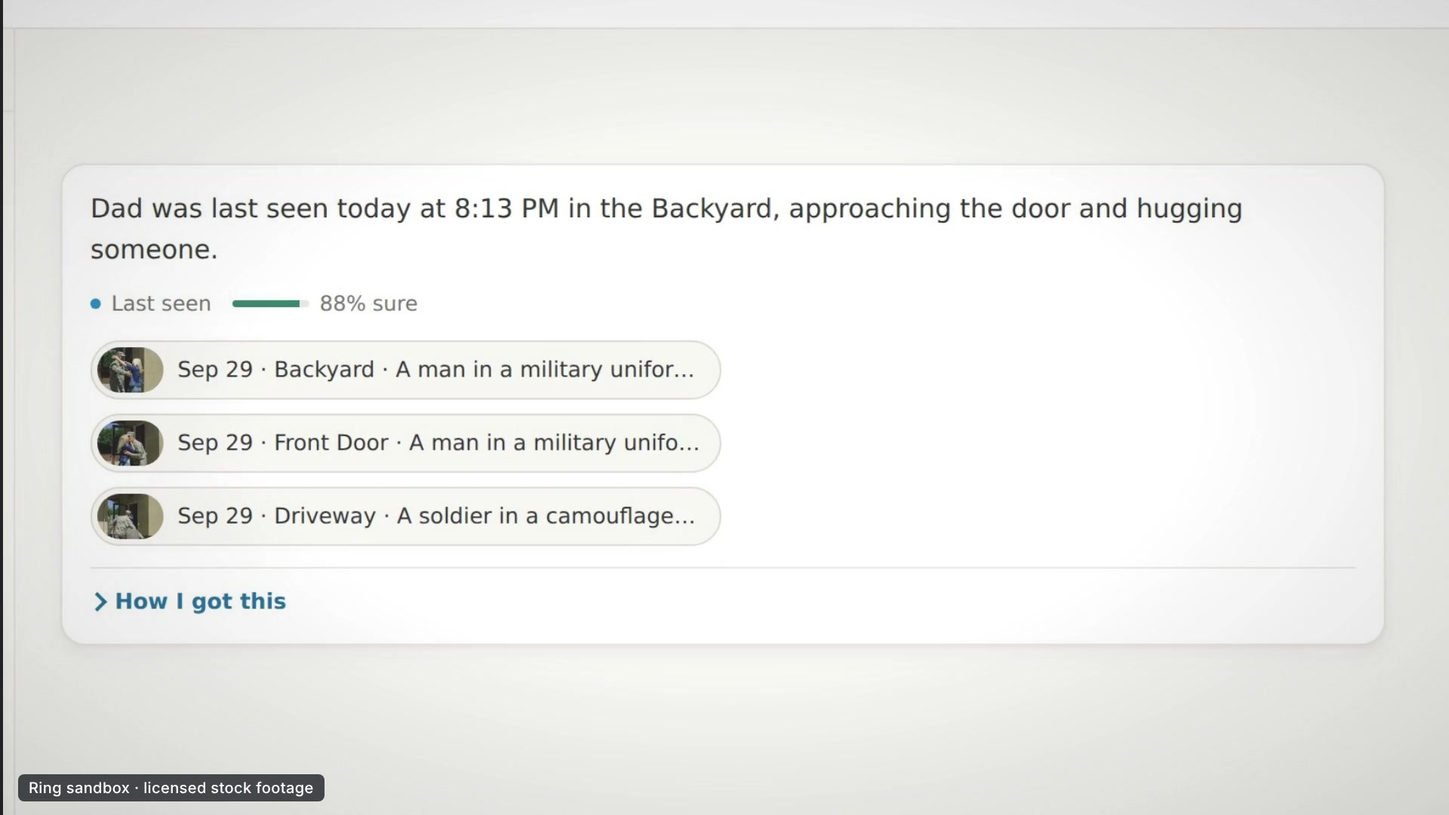
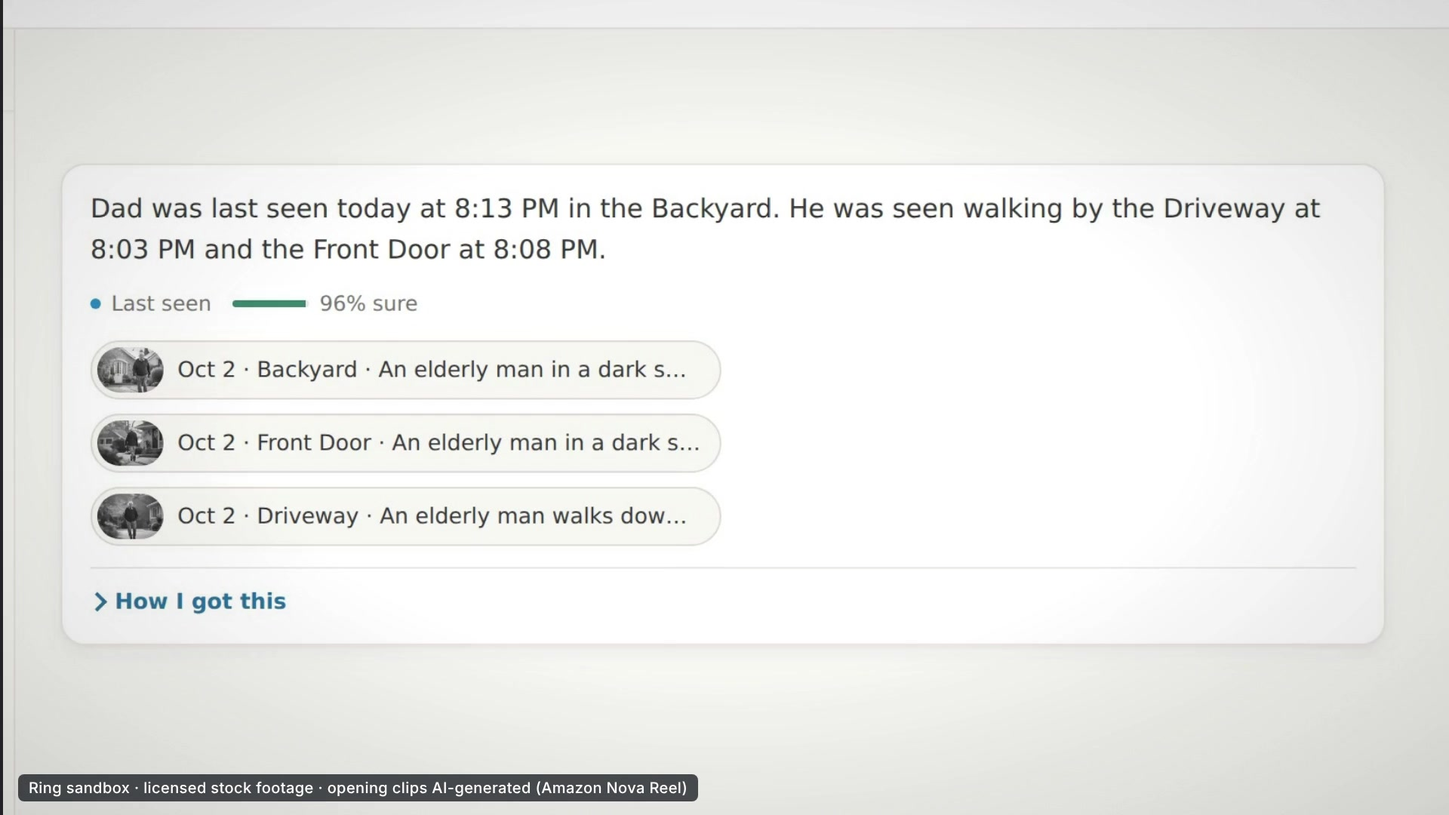
Video: older-man opening, AI-footage disclosure, Nova Reel documentation
- Hook scene uses a take recorded against the older-man database; phone date fixed
- On-screen labels and the end card disclose the AI-generated opening clips
- video/generate_reel.py reproduces the Nova Reel generation (prompt, seed, processing recipe)
- Product feedback + friction log: Nova Reel findings (lighting/camera prompts ignored,
  face drift, outfit consistency by seed, S3 URI rule) and credit eligibility of third-party
  Bedrock models; submission text, README, upload text and checklist updated
- Devpost gallery rebuilt from the new opening

diff --git a/video/recall-demo/compositions/s01-hook.html b/video/recall-demo/compositions/s01-hook.html
@@ -93,7 +93,7 @@
         <div id="s01-phone">
           <div id="s01-screen">
             <div id="s01-island"></div>
-            <div id="s01-date">Tuesday, September 29</div>
+            <div id="s01-date">Friday, October 2</div>
             <div id="s01-clock">8:20</div>
             <div id="s01-notif">
               <div class="s01-peek" id="s01-peek2"></div>
@@ -134,7 +134,7 @@
     <!-- PART 2 · the real product (7.2 – 12.6) -->
     <div id="s01-camwrap" class="s01-layer">
       <div id="s01-cam">
-        <video id="s01-cap" class="clip" src="assets/cap/t_hero.mp4" data-start="7.2" data-duration="5.4" data-media-start="1.15" data-playback-rate="1.25" data-track-index="3" data-hf-media-start-basis="local" muted playsinline></video>
+        <video id="s01-cap" class="clip" src="assets/cap/t_hero_old.mp4" data-start="7.2" data-duration="5.4" data-media-start="1.15" data-playback-rate="1.25" data-track-index="3" data-hf-media-start-basis="local" muted playsinline></video>
       </div>
     </div>
     <div id="s01-c1" class="s01-pill"><i></i>Backyard · 8:13 PM</div>

diff --git a/video/recall-demo/index.html b/video/recall-demo/index.html
@@ -32,7 +32,7 @@
       data-start="131.5" data-duration="17.5" data-track-index="1" data-width="1920" data-height="1080"></div>
     <div id="s09-outro" class="clip" data-composition-id="s09-outro" data-composition-src="compositions/s09-outro.html"
       data-start="149.0" data-duration="27.0" data-track-index="1" data-width="1920" data-height="1080"></div>
-      <div id="disclosure" class="clip" data-start="7.0" data-duration="141.0" data-track-index="8">Ring sandbox · licensed stock footage</div>
+      <div id="disclosure" class="clip" data-start="7.0" data-duration="141.0" data-track-index="8">Ring sandbox · licensed stock footage · opening clips AI-generated (Amazon Nova Reel)</div>
       <div id="main-clock" style="position:absolute;left:0;top:0;width:1px;height:1px;opacity:0"></div>
       <audio id="mix" src="assets/audio/mix.wav" data-start="0" data-duration="176" data-track-index="9" data-volume="1"></audio>
     </div>

diff --git a/video/recall-demo/compositions/s09-outro.html b/video/recall-demo/compositions/s09-outro.html
@@ -210,7 +210,7 @@
       <div class="s09-outro-badge" id="s09-outro-b4">Alexa+ MCP</div>
     </div>
     <div id="s09-outro-neg">Not security AI. Not video search. Not facial recognition.</div>
-    <div id="s09-outro-foot">Dramatization &middot; Ring sandbox &middot; licensed stock footage</div>
+    <div id="s09-outro-foot">Dramatization &middot; Ring sandbox &middot; licensed stock + AI-generated (Amazon Nova Reel) footage</div>
 
     <div id="s09-outro-tag">DRAMATIZATION</div>
     <div id="s09-outro-vig" data-layout-allow-occlusion></div>

diff --git a/video/serve_preview.py b/video/serve_preview.py
@@ -4,6 +4,7 @@ from fastapi import FastAPI
 from fastapi.responses import FileResponse, HTMLResponse
 
 R = pathlib.Path(__file__).parent / "renders"
+REEL = pathlib.Path(__file__).parent / "reel"
 app = FastAPI()
 
 PAGE = """<!doctype html><meta charset=utf-8><meta name=viewport content="width=device-width,initial-scale=1">
@@ -34,3 +35,47 @@ def final():
 @app.api_route("/draft.mp4", methods=["GET", "HEAD"])
 def draft():
     return FileResponse(R / "draft.mp4", media_type="video/mp4")
+
+
+REEL_NOTES = {
+    "attempt1": "Attempt 1 — asked for dusk + fixed security-camera look + a back garden. Result: same man in all 3 shots (seen from behind), photoreal, but bright midday sun, a cinematic look, and shot 3 is not a backyard.",
+    "attempt2": "Attempt 2 — asked for twilight, a static high wide angle and a patio/fence/sliding-door backyard. Result: the man is excellent and consistent (face visible, blue sweater, khakis), but the model gave golden-hour autumn sun instead of dusk, still cinematic with foreground blur, and shot 3 is again a front view.",
+    "hookdad": "PROCESSED for the video (this is what would actually be used for Dad): attempt 3, cleanest 4.7 s of each shot, slowed 10%, grayscale, softened with CCTV grain. Driveway / Front Door / Backyard.",
+    "attempt4": "Attempt 4 — natural-gait prompt, seed 11 (rear view). Same man in all 3 shots, but Recall does NOT link the three shots as one person (scores 0.66 / 0.68 / 0.74 against the 0.70 threshold).",
+    "attempt5": "Attempt 5 — natural-gait prompt, seed 23. Most natural walk (facing camera, face visible) but the clothing changes between shots, so it is not the same man (Recall scores 0.63 / 0.59).",
+    "attempt6": "Attempt 6 — natural-gait prompt, side profile. Same dark jacket and trousers in all 3 shots; Recall links all three as one person with margin (0.84 / 0.90 / 0.90). Settings look like a street/lawn rather than driveway/porch/backyard.",
+    "hookb": "PROCESSED version of attempt 6 for the video (this is what would be used): cleanest 5.3 s of each shot, slowed 10%, grayscale, light camera grain. Driveway / Front Door / Backyard.",
+    "hookc": "PROCESSED from attempt 2 (RECOMMENDED): the walk you liked, trimmed BEFORE the face changes (shot 3 is cut at 4.4 s; the face morphs at ~5.0 s), normal speed, grayscale night-camera look with CCTV softness and grain. Recall links the three shots as one man (0.91 / 0.71 / 0.74; linking works in the order Recall ingests events, but the 0.71 is a thin margin).",
+    "hookd": "ALTERNATIVE grade of attempt 2: dim, cool 'dusk' colour grade keeping the blue sweater. Looks moodier and more cinematic than CCTV; Recall links Driveway~Backyard (0.88) and Front~Backyard (0.71) but Driveway~Front is 0.69 (just under 0.70), so one of the three cameras could end up as a separate person.",
+    "hookpreview": "HOOK PREVIEW (0:00–0:14, draft quality, with the current soundtrack): the new old-man footage in context — the first Recall screen and the three-camera answer. Full-quality render only after you approve.",
+    "attempt3": "Attempt 3 — asks for the look real home cameras have at night: grayscale infrared night vision, grainy CCTV, static, everything in focus. (If this section is empty it is still generating.)",
+}
+
+@app.get("/reels", response_class=HTMLResponse)
+def reels():
+    files = sorted(p.name for p in REEL.glob("*.mp4"))
+    groups = {}
+    for f in files:
+        groups.setdefault(f.split("_")[0], []).append(f)
+    html = ["""<!doctype html><meta charset=utf-8><meta name=viewport content="width=device-width,initial-scale=1"><title>Recall — generated footage review</title>
+<style>body{margin:0;background:#0d1117;color:#e6e6e6;font:16px/1.5 Inter,system-ui,sans-serif}main{max-width:1280px;margin:0 auto;padding:24px 16px 60px}
+h1{font-size:22px;margin:0 0 4px}h2{font-size:18px;margin:32px 0 4px}p{color:#9aa4b2;margin:4px 0 12px}.row{display:grid;grid-template-columns:repeat(3,1fr);gap:12px}
+@media(max-width:900px){.row{grid-template-columns:1fr}}figure{margin:0}video{width:100%;border-radius:10px;background:#000}figcaption{color:#9aa4b2;font-size:14px;margin-top:4px}
+.full video{max-width:100%}</style><main><h1>Generated footage for review (Amazon Nova Reel 1.1)</h1>
+<p>AI-generated, 1280×720. Nothing here is used in the video until you approve it. Played muted; the files carry no meaningful sound.</p>"""]
+    for g, fs in groups.items():
+        html.append(f"<h2>{g}</h2><p>{REEL_NOTES.get(g, '')}</p>")
+        shots = [f for f in fs if "shot_" in f]; full = [f for f in fs if "output" in f]
+        html.append('<div class=row>' + "".join(f'<figure><video controls loop muted playsinline preload=metadata src="/reel/{f}"></video><figcaption>{f.replace("_"," ").replace(".mp4","")}</figcaption></figure>' for f in shots) + "</div>")
+        if full:
+            html.append(f'<h3 style="font-size:15px;margin:18px 0 6px">Full 18 s sequence</h3><div class=full><video controls loop muted playsinline preload=metadata src="/reel/{full[0]}"></video></div>')
+    html.append("</main>")
+    return "".join(html)
+
+@app.api_route("/reel/{name}", methods=["GET", "HEAD"])
+def reel_file(name: str):
+    p = REEL / pathlib.Path(name).name
+    if p.suffix != ".mp4" or not p.exists():
+        from fastapi import HTTPException
+        raise HTTPException(404)
+    return FileResponse(p, media_type="video/mp4")

diff --git a/video/generate_reel.py b/video/generate_reel.py
@@ -1,0 +1,53 @@
+"""Generate the older-man footage with Amazon Nova Reel 1.1 (multi-shot, same man across shots).
+
+    python3 video/generate_reel.py <s3-bucket-in-us-east-1> [seed]        # starts a job, prints the invocation ARN
+    python3 video/generate_reel.py --wait <invocation-arn> <bucket>       # waits, then downloads the shots to video/reel/
+
+Nova Reel 1.1 exists only in us-east-1, writes to S3 (give it the bucket ROOT, not a prefix), and costs $0.08 per
+second of video (18 s ≈ $1.44; verified via the AWS Price List API). The prompt below produced the clips used in the
+video's opening (seed 7). Afterwards the shots were processed with ffmpeg:
+    hue=s=0, scale=720:405, gblur=0.6, noise=alls=8:allf=t, eq=contrast=1.12:brightness=-0.03:gamma=0.95, vignette, scale=1280:720
+and trimmed before the model's face drifts (shot 3 is cut at 4.4 s).
+"""
+import pathlib, sys, time
+
+import boto3
+
+PROMPT = (
+    "Home security camera footage recorded in the late evening at blue hour twilight, very dim ambient light with a dark blue sky, "
+    "porch lights and warm window lights switched on, slightly grainy wide-angle lens, camera mounted high on the wall and completely "
+    "static, no camera movement, no zoom, no pan, no shallow depth of field, everything in focus, no foreground blur, realistic. "
+    "The same elderly man appears in every shot: an 81-year-old man with white hair, wearing a blue knitted sweater and khaki trousers, "
+    "walking slowly with a slight stoop. He is completely alone, no other people. "
+    "Shot 1: high wide fixed view of a suburban driveway at dusk with a garage door on the right and the street at the bottom of the "
+    "frame; the elderly man walks slowly up the driveway toward the house. "
+    "Shot 2: fixed view of the front porch with the front door lit by a warm porch light; the same elderly man in the blue sweater walks "
+    "up the steps to the front door, stops in front of it, then turns and walks along the side of the house. "
+    "Shot 3: high wide fixed view of the back garden behind the house at dusk: a lawn, a wooden fence, a patio with a table and chairs, "
+    "and a sliding glass back door with a light on inside; the same elderly man in the blue sweater walks slowly across the lawn toward "
+    "the back door.")
+
+client = boto3.client("bedrock-runtime", region_name="us-east-1")
+
+if sys.argv[1] == "--wait":
+    arn, bucket = sys.argv[2], sys.argv[3]
+    while True:
+        r = client.get_async_invoke(invocationArn=arn)
+        if r["status"] != "InProgress":
+            break
+        time.sleep(20)
+    print(r["status"], r.get("failureMessage") or "")
+    if r["status"] == "Completed":
+        s3, out = boto3.client("s3", region_name="us-east-1"), pathlib.Path(__file__).parent / "reel"
+        out.mkdir(exist_ok=True)
+        for o in s3.list_objects_v2(Bucket=bucket, Prefix=arn.split("/")[-1] + "/").get("Contents", []):
+            if o["Key"].endswith(".mp4"):
+                s3.download_file(bucket, o["Key"], str(out / o["Key"].split("/")[-1])); print("downloaded", o["Key"])
+else:
+    bucket, seed = sys.argv[1], int(sys.argv[2]) if len(sys.argv) > 2 else 7
+    r = client.start_async_invoke(
+        modelId="amazon.nova-reel-v1:1",
+        modelInput={"taskType": "MULTI_SHOT_AUTOMATED", "multiShotAutomatedParams": {"text": PROMPT},
+                    "videoGenerationConfig": {"seed": seed, "durationSeconds": 18, "fps": 24, "dimension": "1280x720"}},
+        outputDataConfig={"s3OutputDataConfig": {"s3Uri": f"s3://{bucket}"}})
+    print(r["invocationArn"])

diff --git a/video/capture.py b/video/capture.py
@@ -89,6 +89,15 @@ async def t_boxes(pg):
             await pg.wait_for_timeout(3600)
 
 
+async def t_hero_old(pg):
+    """Same beat as t_hero, recorded against the old-man hook database (RECALL_URL=http://127.0.0.1:8401)."""
+    await t_hero(pg)
+
+
+async def t_boxes_old(pg):
+    await t_boxes(pg)
+
+
 async def t_reason(pg):
     """How the answer was reached: reasoning steps, confidence, citations, the video with the tracking box."""
     await _ready(pg)

diff --git a/SUBMISSION.md b/SUBMISSION.md
@@ -80,13 +80,13 @@ The need is the same whether one family or a thousand residents are involved: kn
 Structured event records mean reasoning over rows instead of re-processing video, so answers are fast and cheap. Ingestion is signed and idempotent, safety flags are human-in-the-loop, corrections are owner-controlled, there is no face recognition, and it can be deployed in the customer's own AWS account. (These are use cases we designed for — not customers or pilots.)
 
 ## Built with
-Ring Partner API (client, signed webhooks, sandbox) · Amazon Bedrock (Nova Pro, Nova Lite, Titan embeddings) · TypeSafe Jev (Decisions API via OpenRouter) · Model Context Protocol (Alexa+) · Python · FastAPI · SQLite · ffmpeg · Playwright · HyperFrames · ElevenLabs
+Ring Partner API (client, signed webhooks, sandbox) · Amazon Bedrock (Nova Pro, Nova Lite, Nova Reel, Titan embeddings) · TypeSafe Jev (Decisions API via OpenRouter) · Model Context Protocol (Alexa+) · Python · FastAPI · SQLite · ffmpeg · Playwright · HyperFrames · ElevenLabs
 
 ---
 
 ## Track-specific evidence (for reviewers)
 - **Ring:** the repository calls Ring technology at runtime — `ring_api.RingClient` (devices, event history, clip and snapshot download), the `/ring/webhook` receiver with HMAC verification, and `pipeline.sync()`. The demo video shows Recall running on the Ring **sandbox** (same endpoints, signed webhooks), labelled on screen. Priority area: **caretaking**.
-- **AWS Builder:** Amazon Bedrock — Nova Pro (perception, Converse multi-image), Nova Lite (slot extraction and narration), Titan image and text embeddings (re-identification, retrieval). The integrations, what worked and what needs work are documented in [`PRODUCT_FEEDBACK.md`](https://github.com/Garinmckayl/recall/blob/main/PRODUCT_FEEDBACK.md).
+- **AWS Builder:** Amazon Bedrock — Nova Pro (perception, Converse multi-image), Nova Lite (slot extraction and narration), Titan image and text embeddings (re-identification, retrieval), and Nova Reel 1.1 (generated the older-man footage in the demo's opening, via S3 and the async API; `video/generate_reel.py`). The integrations, what worked and what needs work are documented in [`PRODUCT_FEEDBACK.md`](https://github.com/Garinmckayl/recall/blob/main/PRODUCT_FEEDBACK.md).
 - **Open Source:** new project, MIT licensed. Repository: https://github.com/Garinmckayl/recall · GitHub username: **Garinmckayl** · Contribution: a complete, documented memory layer for Ring events — signed-webhook ingestion, a Ring Partner API client and sandbox, person re-identification without faces, routine learning and proactive check-ins, an MCP server, 34 tests, deploy scripts and the demo-video source.
 - **Alexa+:** `POST /mcp` — Streamable HTTP, JSON-RPC 2.0, protocol 2025-11-25; tools `ask_home`, `last_seen`, `get_timeline`, `list_people`, `watch_for`. Validated with raw JSON-RPC (no Alexa+ device harness was available — see the friction log).
 
@@ -98,5 +98,5 @@ Ring Partner API (client, signed webhooks, sandbox) · Amazon Bedrock (Nova Pro,
 Everything in the repository was built between Aug 31 and Oct 23, 2026. The project grew from an earlier prototype ("HomeGuard", docs in `docs/v1/`) started in the same period; Recall replaced its analysis pipeline with the memory graph, Ring client and sandbox, re-identification, reasoning operators, routines and check-ins, corrections, the MCP server, deployment scripts and the demo-video source.
 
 ## Notes for reviewers
-- The video opens and closes with a short **dramatization** (labelled on screen). Everything else is the real product running on the Ring sandbox with licensed stock footage (Mixkit Free License); no real household footage or personal data is used.
+- The video opens and closes with a short **dramatization** (labelled on screen). Everything else is the real product running on the Ring sandbox. The footage is licensed stock (Mixkit Free License) plus **AI-generated clips of an older man made with Amazon Nova Reel** (used for "Dad" in the opening and in the default demo data), labelled on screen and on the end card. No real household footage or personal data is used.
 - Statistics in the video carry their sources on screen; the "412 clips this month" counter is captioned illustrative; business examples are tagged as example queries.

diff --git a/PRODUCT_FEEDBACK.md b/PRODUCT_FEEDBACK.md
@@ -28,6 +28,14 @@ Per tool, API and SDK used in this submission: what we used, what worked, what n
 **What needs work:** the Decisions endpoint (`/api/alpha/decisions`, `typesafe/jev-1.13`) is not in the main OpenRouter docs and `typesafe/jev-latest` fails on chat completions with no pointer to it; the 400 for a wrong `criteria` shape does not say which shape is wanted.
 **Build with it again?** Yes, immediately.
 
+## Amazon Nova Reel 1.1 — video generation (AWS Builder challenge)
+**Used:** to generate the older-man footage in the demo video's opening, so the story ("your father is 81") matches what the product shows (`video/generate_reel.py`). One multi-shot job of 18 seconds (three 6-second shots of the same man), run six times with different prompts and seeds; the clips were then trimmed and given a night-camera look with ffmpeg. The footage is labelled AI-generated in the video, on the end card and in this submission. It feeds Recall through the normal Ring-sandbox path (seeded as Ring events), so Nova Perception and Titan re-identification run on it like any other clip.
+**What worked:** the multi-shot mode really does keep the *same* person across shots (the one thing independent single clips could not promise); photoreal quality; the async API (`StartAsyncInvoke` + `GetAsyncInvoke`) is simple; about 3 minutes per 18 seconds; $0.08 per second, which the AWS Price List API confirmed (the pricing page hides its tables from scripts).
+**What needs work:** (1) lighting and camera instructions are often ignored — "dusk" produced golden-hour sun, and "static security camera, everything in focus" still came out cinematic with blurred foregrounds; (2) human gait glitches are common and the face of a person walking toward the camera changed about five seconds into one shot, so we trimmed before it; (3) outfit consistency across shots depends on the seed — one of three seeds changed clothes between shots; (4) the output S3 URI must be the bucket root — a prefix gives "does not point to a bucket or a directory", which does not say what to fix; (5) it is only in us-east-1.
+**Onboarding:** quick once an S3 bucket exists in us-east-1 (we used a private bucket with a 14-day expiry).
+**Cost note:** third-party video models on Bedrock (Luma Ray 2) are billed as AWS Marketplace-style line items, and on our account promotional credits covered every Amazon-built service but none of the third-party Bedrock models; a table of which Bedrock models are credit-eligible would help hackathon teams plan.
+**Build with it again?** Yes for B-roll and establishing shots; for hero shots that need natural human motion, we would film real footage.
+
 ## Model Context Protocol / Alexa+ integration
 **Used:** a Streamable HTTP MCP server (protocol `2025-11-25`) exposing `ask_home`, `last_seen`, `get_timeline`, `list_people` and `watch_for`, with Origin validation, optional bearer token, batching and correct `notifications/*` → 202 and `GET` → 405 behaviour.
 **What worked:** the protocol is small and pleasant to implement; tool annotations (`readOnlyHint`) map well onto a memory that is mostly read-only.

diff --git a/FRICTION_LOG.md b/FRICTION_LOG.md
@@ -23,6 +23,10 @@ Honest friction from building on the hackathon stack. 🔴 blocker · 🟡 annoy
 | 10 | 🟢 | Region came from `AWS_REGION` in the environment (us-west-2 here); the code defaults to it via `config.AWS_REGION`, so inference profiles must exist there. |
 | 16 | 🟡 | An existing EC2 instance has **no Bedrock access until an instance profile is attached** — there is no one-click "let this instance call Bedrock". Deploying meant creating a role, an instance profile and associating it (`deploy/aws_setup.py` does it idempotently). |
 | 17 | 🟢 | The `us.` cross-region inference profiles need `bedrock:InvokeModel` on the *inference profile* **and** on foundation models in every region the profile can route to (`arn:aws:bedrock:*::foundation-model/*`); a region-scoped policy fails at call time, not at policy creation. |
+| 18 | 🟡 | **Nova Reel ignores lighting and camera instructions.** "Dusk" / "twilight" produced golden-hour sun; "static security camera, everything in focus" still came out cinematic with blurred foreground. What worked: asking for *grayscale infrared night-vision CCTV* (a look the model knows), then grading the footage ourselves. |
+| 19 | 🟡 | **Generated people drift.** A man walking toward the camera changed face about five seconds into a shot; gait often looks off; outfit consistency across multi-shot sequences depends on the seed. We tested every candidate through Recall's own re-identification before choosing one (scores 0.63–0.92 across attempts) and trimmed before the drift. |
+| 20 | 🟢 | `StartAsyncInvoke` with an S3 *prefix* fails with "does not point to a bucket or a directory"; the bucket root works (Nova Reel then creates its own job folder). |
+| 21 | 🟡 | **Credits vs third-party Bedrock models.** On our account promotional credits fully offset Amazon-built services (EC2, Nova, AgentCore…) but applied to none of the third-party models on Bedrock (Claude; Luma Ray 2 would be the same), which are separate "(Amazon Bedrock Edition)" line items. We kept the video generation on Amazon Nova Reel for that reason. |
 
 ## TypeSafe Jev (System One decisions)
 

diff --git a/docs/devpost/YOUTUBE_UPLOAD.md b/docs/devpost/YOUTUBE_UPLOAD.md
@@ -29,7 +29,7 @@ Chapters
 Code (MIT): https://github.com/Garinmckayl/recall
 
 About this video
-- The phone story at the start and end is a labelled dramatization. Everything else is the real product running on the Ring sandbox (same endpoints, signed webhooks) with licensed stock footage (Mixkit Free License).
+- The phone story at the start and end is a labelled dramatization. Everything else is the real product running on the Ring sandbox (same endpoints, signed webhooks) with licensed stock footage (Mixkit Free License) and AI-generated clips of an older man made with Amazon Nova Reel (labelled on screen).
 - Narration, score and sound effects are AI-generated with ElevenLabs.
 - Statistics on screen: AARP Home & Community Preferences Survey 2024; CDC Facts About Older Adult Falls; BMJ 2008 cohort study of people over 90 (Fleming & Brayne). The "clips this month" counter is illustrative.
 - Safety observations in Recall are always labelled unverified; the clip is the ground truth.
@@ -38,4 +38,4 @@ About this video
 **Tags**
 recall, ring, amazon developer hackathon, aws, amazon bedrock, amazon nova, caretaking, aging in place, elder care, home safety, visual memory, ai agents, mcp, alexa
 
-**Settings to check:** "Altered or synthetic content" — the narration and score are AI-generated and the opening is a dramatization; answer according to YouTube's current wording. Comments and embedding on. No music claims should appear (the score is generated).
+**Settings to check:** "Altered or synthetic content" — the narration and score are AI-generated and the opening features an AI-generated realistic person, so I would answer **Yes** and follow YouTube's current wording. Comments and embedding on. No music claims should appear (the score is generated).

diff --git a/README.md b/README.md
@@ -80,6 +80,6 @@ Per-client rate limits on the endpoints that spend money (`/api/ask`, `/api/demo
 ## Layout
 `server.py` API + UI + webhook + MCP · `ring_api.py` client / HMAC · `ring_sim.py` sandbox · `pipeline.py` ingest · `perceive.py` Nova · `identity.py` re-id and corrections · `roles.py` role posterior · `query.py` operators · `routine.py` routines and check-ins · `digest.py` Today card · `watch.py` rules · `timeparse.py` · `aws.py` Bedrock · `jev.py` Decisions API + question sets · `db.py` / `views.py` · `static/index.html` UI · `seed.py` · `rehearse.py` · `deploy/` · `tests/` · `video/` (demo-video source: HyperFrames scenes, ElevenLabs audio scripts, screen-capture harness — see `video/README.md`). `docs/v1/` holds the earlier HomeGuard prototype's docs, which Recall grew from.
 
-Sample footage in `demo_clips/` is stock video from [Mixkit](https://mixkit.co/license/#videoFree) (Mixkit Free License), standing in for a real household.
+Sample footage in `demo_clips/` stands in for a real household: stock video from [Mixkit](https://mixkit.co/license/#videoFree) (Mixkit Free License), plus AI-generated clips of an older man (Dad) made with Amazon Nova Reel (`video/generate_reel.py`, labelled in the video).
 
 MIT licensed. Built during the submission period (Aug 31 – Oct 23, 2026).

diff --git a/SUBMISSION_CHECKLIST.md b/SUBMISSION_CHECKLIST.md
@@ -22,6 +22,7 @@ Deadline: **Oct 23, 2026, 12:00 pm PT** (AWS credit request form due Oct 21, 12 
 4. [ ] On Devpost: create the project, paste each section of `SUBMISSION.md`, add the thumbnail and gallery images, add the video URL, select tracks/mini challenges (Ring, AWS Builder, Open Source), and add the repo URL.
 5. [ ] Product feedback field: paste or link `PRODUCT_FEEDBACK.md`; attach the friction log for the bonus.
 6. [ ] Request the AWS credits (form due Oct 21) if you want them.
+6b. [ ] Cost housekeeping: the Nova Reel generation (about $8.64 at $0.08/s) should be covered by your credits — check Cost Explorer a day later (filter service "Amazon Bedrock"; the Credit lines should offset it). The private S3 bucket `recall-nova-reel-<account>-use1` auto-deletes its contents after 14 days; delete the bucket when you no longer need it.
 7. [ ] Confirm your ElevenLabs plan allows commercial use of the generated music/voice, and that the shared-library voice (Brian, `gPPH6SLdL8XSX6GNJ40G`) is permitted for your use — the video may be promoted by Amazon/Devpost.
 8. [ ] Optional: contribute back — send the Ring team the sandbox/webhook feedback in `PRODUCT_FEEDBACK.md`.
 9. [ ] Submit early; edits are not allowed after the deadline.
